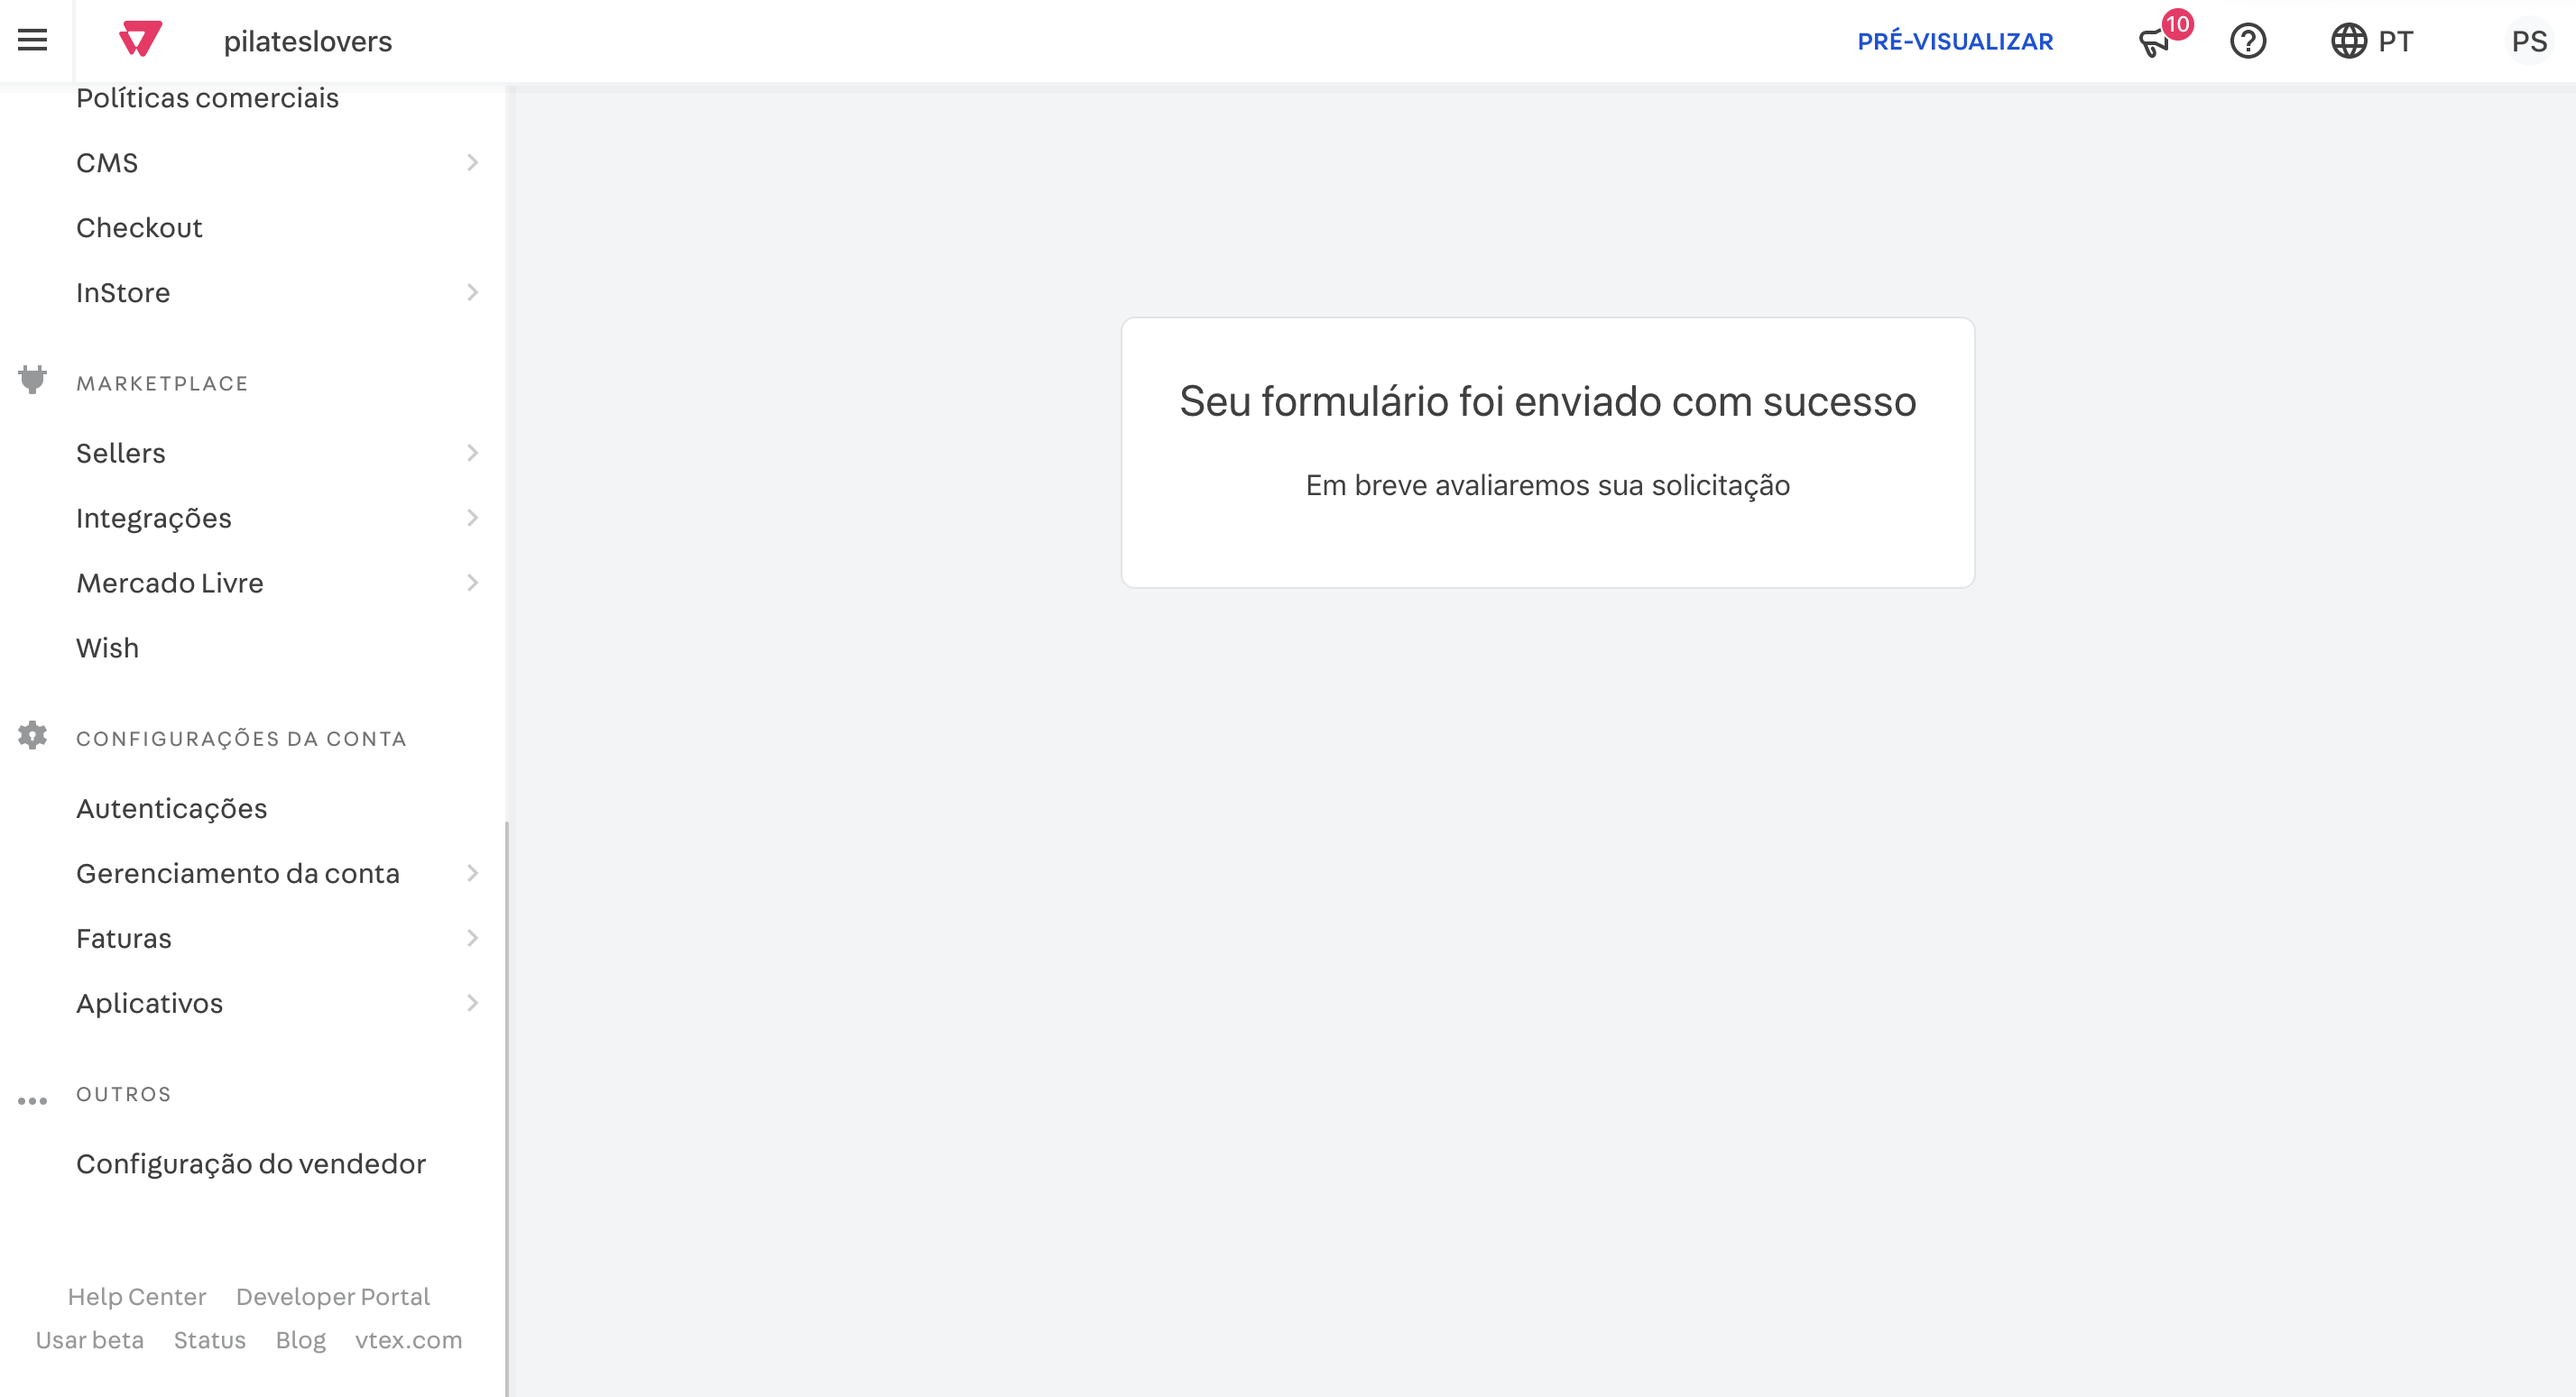
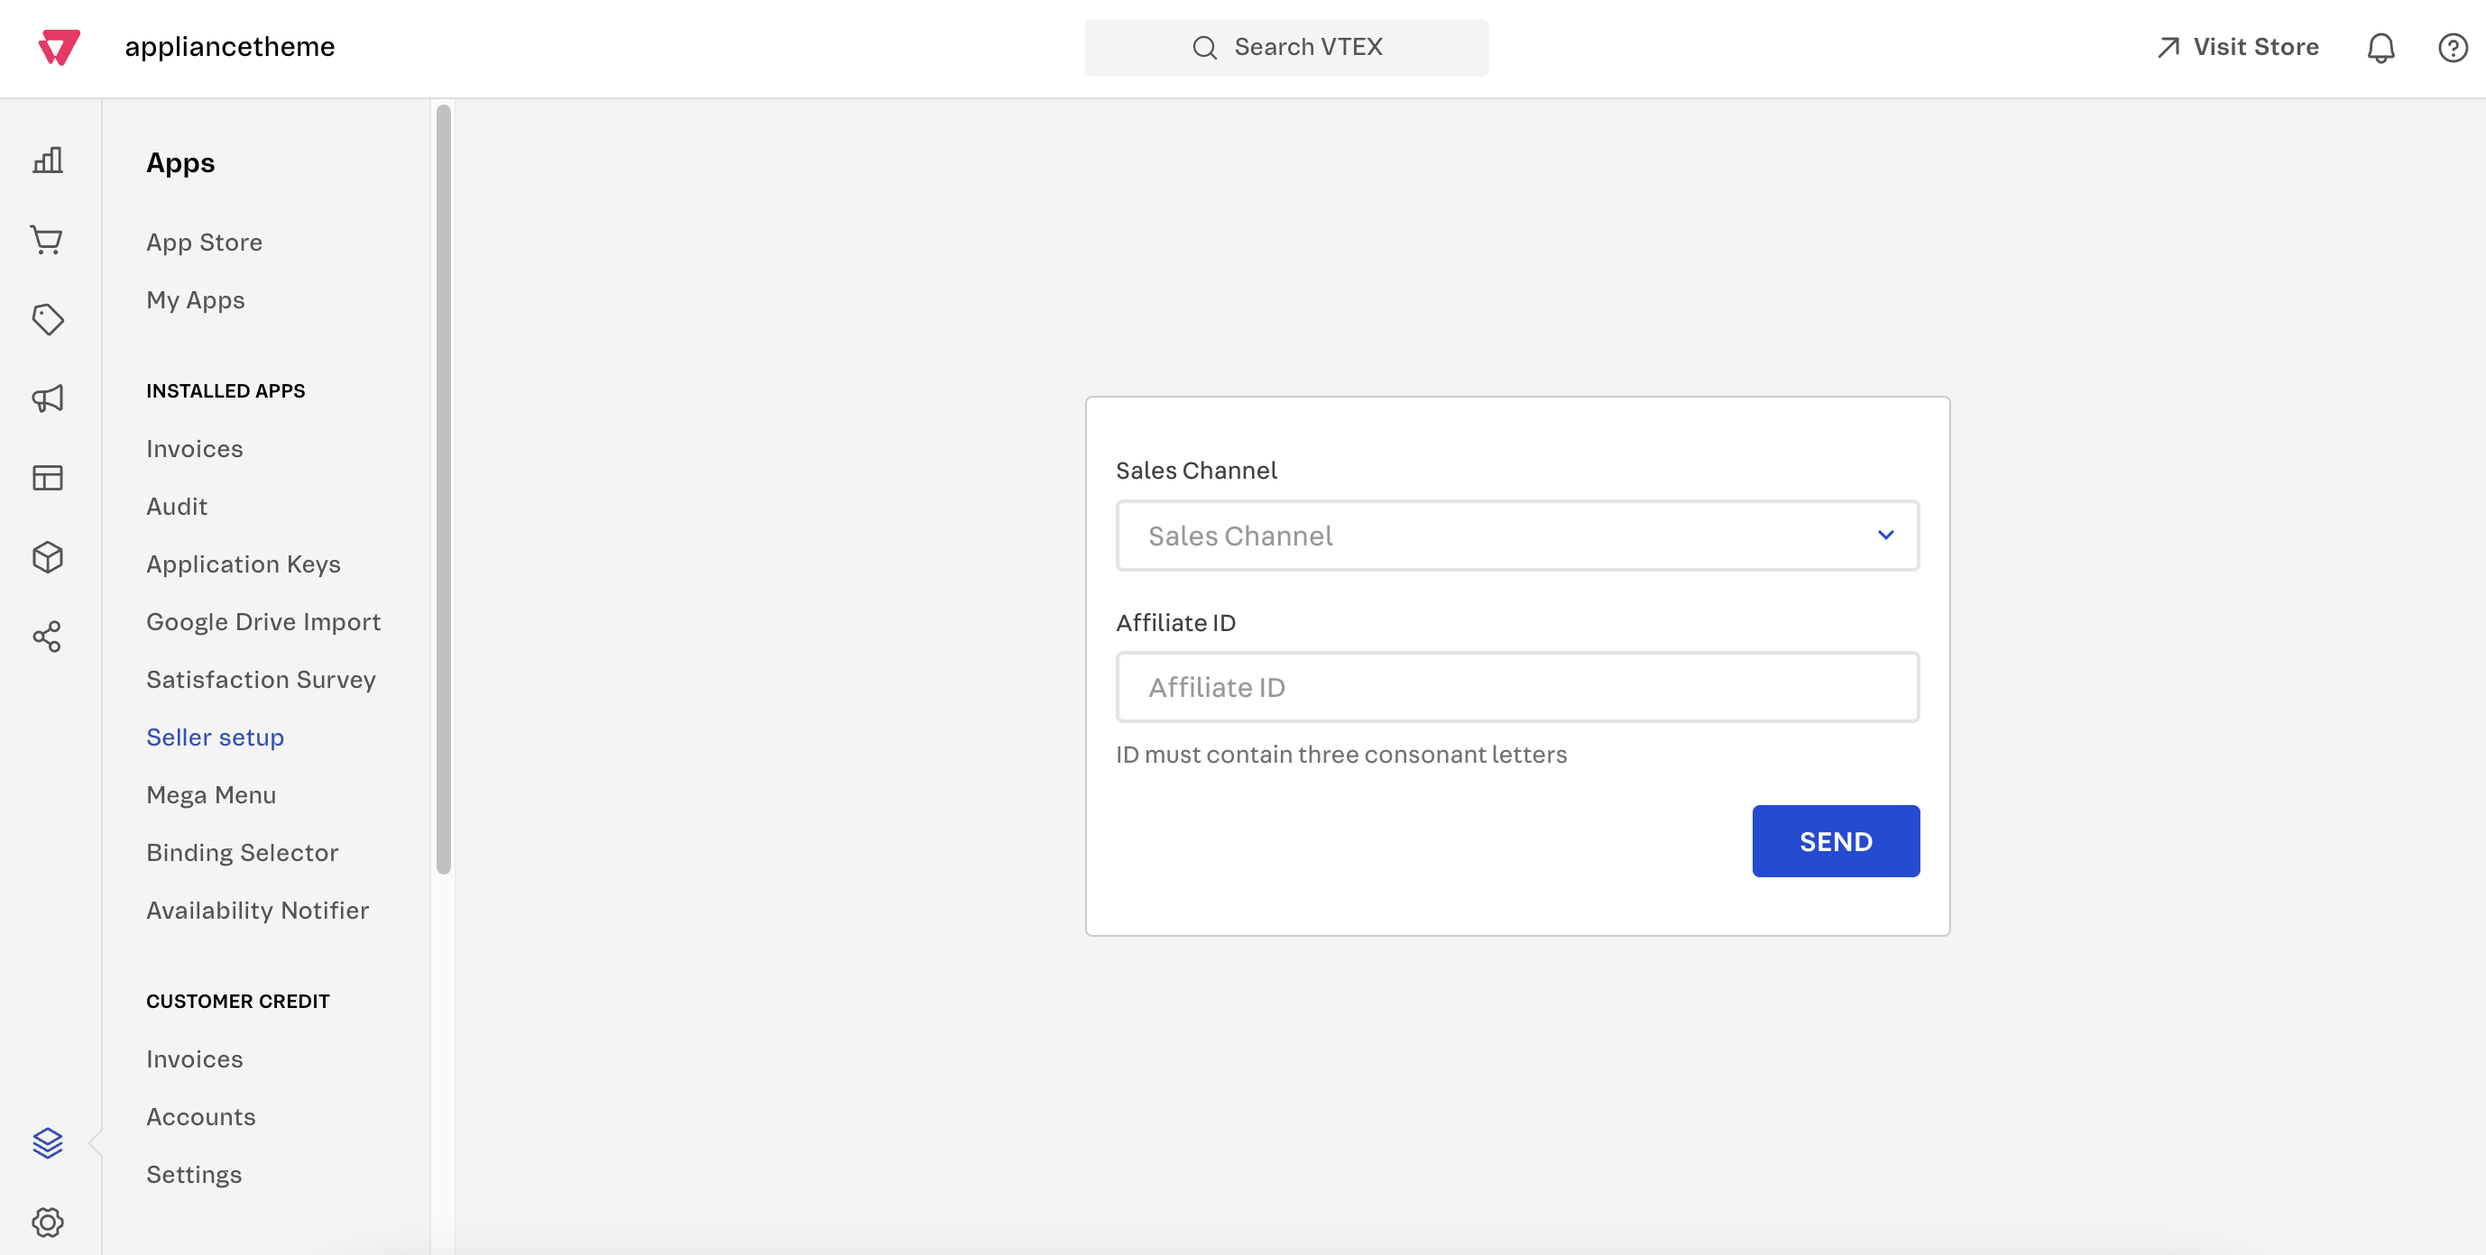
changing images to english version

diff --git a/docs/vtex-io/App-Guides/vtex-app-store/vtex-io-documentation-becoming-a-registered-vtex-app-store-developer.md b/docs/vtex-io/App-Guides/vtex-app-store/vtex-io-documentation-becoming-a-registered-vtex-app-store-developer.md
@@ -42,13 +42,13 @@ Follow the steps below to register as a new seller on VTEX App Store:
 
 1. Logged into the VTEX account in which you are working, run `vtex install vtex.app-store-seller@0.x` in your terminal.
 2. Access the admin of the VTEX account in which you're working.
-3. In `Other`, access `Seller setup` and fill out the required fields.
+3. In `Installed apps`, access `Seller setup` and fill out the required fields.
 4. Select the sales channel you intend to use to connect to the App Store.
 5. Choose an affiliate ID, made up of 3 consonants:
 
-![submitting-seller-1](https://cdn.jsdelivr.net/gh/vtexdocs/dev-portal-content@main/images/vtex-io-documentation-becoming-a-registered-vtex-app-store-developer-0.png)
+![submitting-seller-1](/images/vtex-io-documentation-becoming-a-registered-vtex-app-store-developer-1.png)
 
-![submitting-seller-2](https://cdn.jsdelivr.net/gh/vtexdocs/dev-portal-content@main/images/vtex-io-documentation-becoming-a-registered-vtex-app-store-developer-1.png)
+![submitting-seller-2](/images/vtex-io-documentation-becoming-a-registered-vtex-app-store-developer-2.png)
 
 After submitting the request to be a seller, you can check its `status` until our team approves it. This approval is required in order to complete the next steps and be able to successfully publish your app in the VTEX App Store.
 
